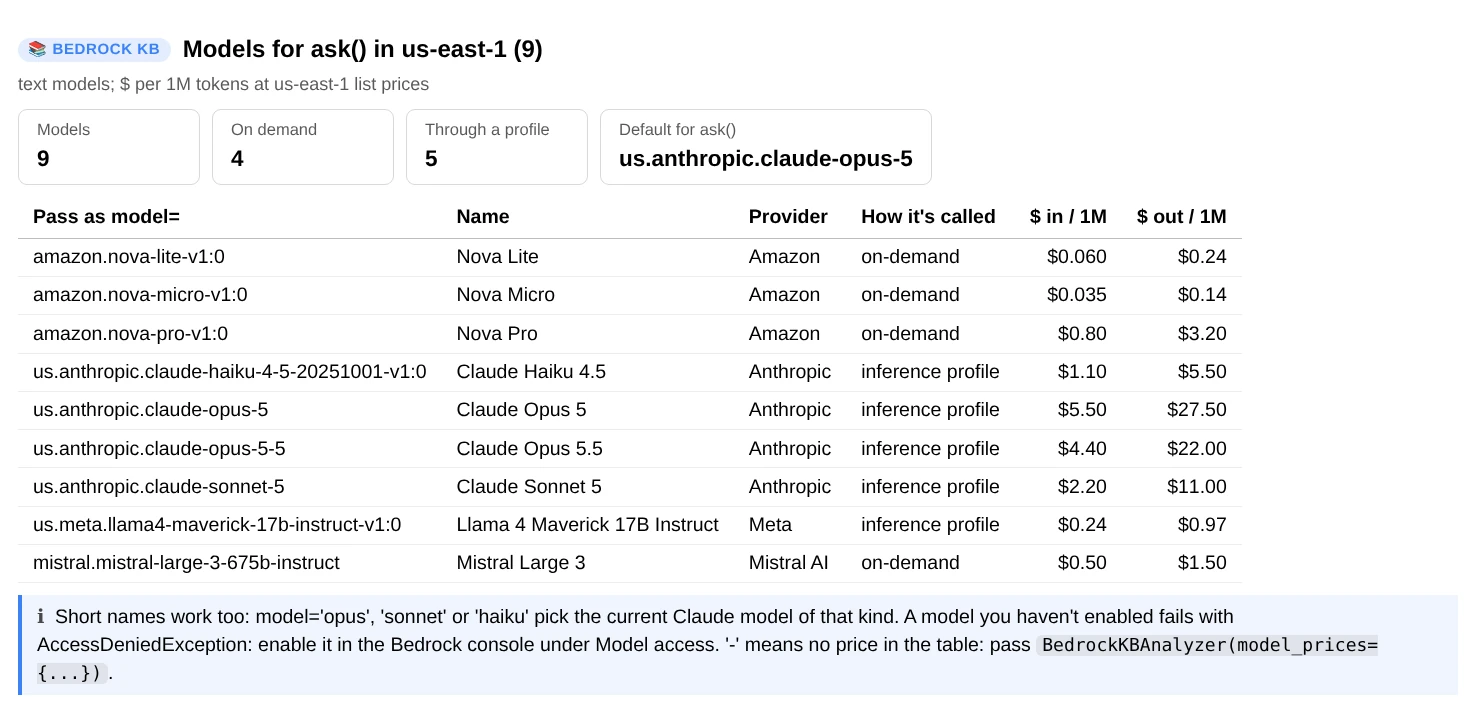
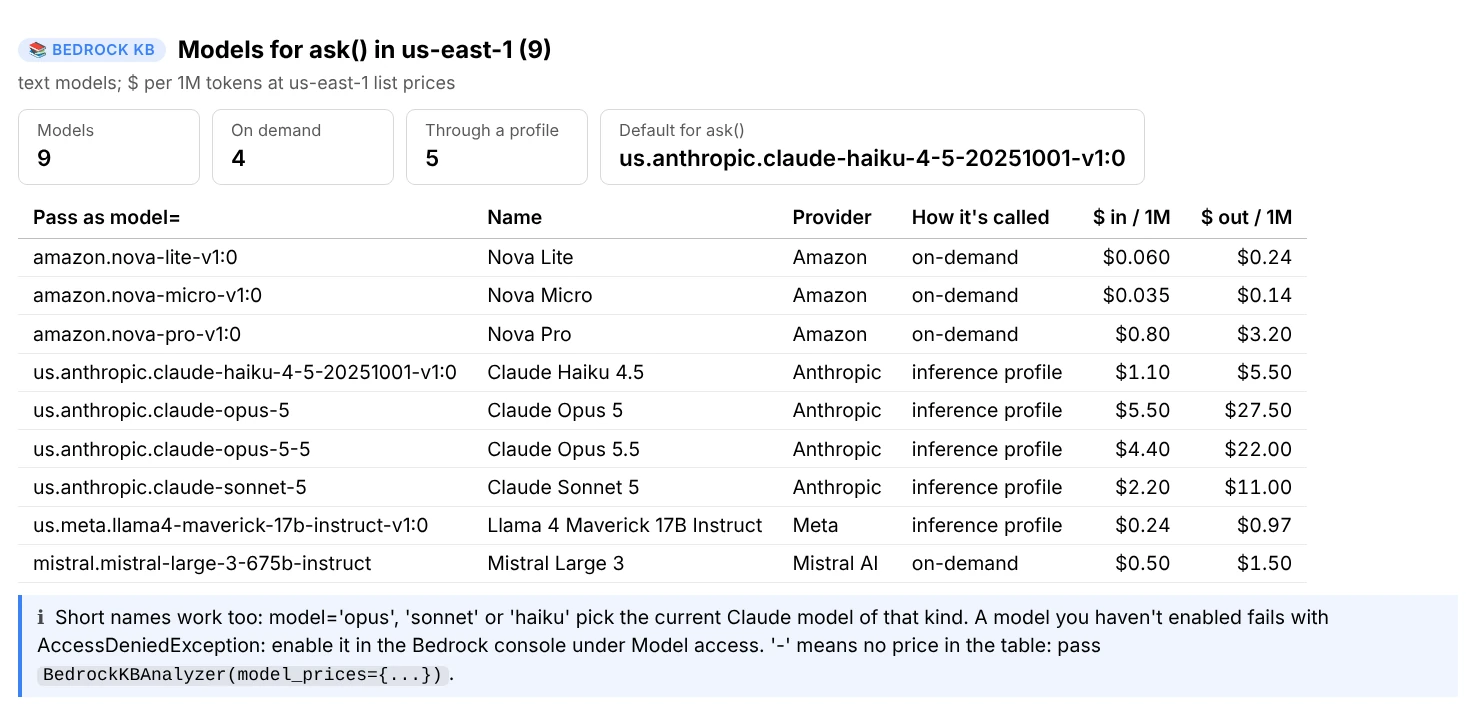
Make Claude Haiku 4.5 bedrock_kb's default model too
bedrock_kb's DEFAULT_MODEL now matches bedrock_chat's: ask() and generate()
without model= answer through Claude Haiku 4.5's inference profile. The tests
expect the Haiku profile by default, README and the guide say so, the ask and
models figures are remade, and the changelog entry covers both files and
links the pull request.

Claude-Session: https://claude.ai/code/session_01TEHyrYuZEVyPENDTYoAWq6

diff --git a/analyzers/bedrock_kb.py b/analyzers/bedrock_kb.py
@@ -142,7 +142,7 @@ GLOBAL_MODEL_PRICES: dict[str, tuple[float, float]] = {
     "nova-2-lite": (0.30, 2.50),
 }
 
-DEFAULT_MODEL = "anthropic.claude-opus-5"  # Claude Opus 5; resolve_model() finds the ID or profile to call it with
+DEFAULT_MODEL = "anthropic.claude-haiku-4-5"  # Claude Haiku 4.5; resolve_model() finds the ID or profile to call it with
 _MODEL_ALIASES = {
     "opus": "claude-opus-5",
     "sonnet": "claude-sonnet-5",
@@ -2777,7 +2777,7 @@ class BedrockKBAnalyzer:
     Methods take the knowledge base first, as an ID, a name (any case) or an ARN. Nothing here starts a sync or
     changes a document; where one is needed, sync_command() gives the command to run.
     `prices` and `model_prices` override BEDROCK_PRICES and MODEL_PRICES for cost estimates; `default_model` is the
-    model ask() and generate() use when none is given (DEFAULT_MODEL, Claude Opus 5, otherwise). `clients` pre-fills the boto3 clients by service name
+    model ask() and generate() use when none is given (DEFAULT_MODEL, Claude Haiku 4.5, otherwise). `clients` pre-fills the boto3 clients by service name
     ('bedrock-agent', 'bedrock-agent-runtime', 'bedrock-runtime', 'bedrock', 's3'), e.g. to use stubbed ones.
     """
 
@@ -2805,7 +2805,7 @@ class BedrockKBAnalyzer:
         self.prices = {**BEDROCK_PRICES, **(prices or {})}
         self.model_prices = {**MODEL_PRICES, **(model_prices or {})}
         self.default_model = (
-            default_model  # what model=None means (None: DEFAULT_MODEL, Claude Opus 5)
+            default_model  # what model=None means (None: DEFAULT_MODEL, Claude Haiku 4.5)
         )
         self._models: list[ModelInfo] | None = None
         self._profiles: list[dict[str, Any]] = []
@@ -3362,7 +3362,7 @@ class BedrockKBAnalyzer:
 
     def resolve_model(self, name: str | None = None) -> tuple[str, str]:
         """(ID to call, ARN) for a model: a model ID or ARN, an inference profile ID, or a short name ('opus',
-        'sonnet', 'haiku', 'claude-opus-5', 'nova-pro'). None means default_model, else DEFAULT_MODEL (Claude Opus 5).
+        'sonnet', 'haiku', 'claude-opus-5', 'nova-pro'). None means default_model, else DEFAULT_MODEL (Claude Haiku 4.5).
         A model that can't be called on demand resolves to this region's inference profile. If the model list can't
         be read, the name is used as given."""
         wanted = str(name or self.default_model or DEFAULT_MODEL).strip()

diff --git a/tests/test_bedrock_kb.py b/tests/test_bedrock_kb.py
@@ -385,6 +385,8 @@ PROFILES = [
 OPUS_PROFILE = (
     f"arn:aws:bedrock:us-east-1:{ACCOUNT}:inference-profile/us.anthropic.claude-opus-5"
 )
+HAIKU = "us.anthropic.claude-haiku-4-5-20251001-v1:0"  # what DEFAULT_MODEL resolves to
+HAIKU_PROFILE = f"arn:aws:bedrock:us-east-1:{ACCOUNT}:inference-profile/{HAIKU}"
 
 
 def denied(stub, operation, code="AccessDeniedException"):
@@ -1852,10 +1854,7 @@ def test_resolve_sources_without_list_permission(aws, core):
 
 def test_resolve_model_short_names(aws, core):
     aws.models()
-    assert core.resolve_model() == (
-        "us.anthropic.claude-opus-5",
-        OPUS_PROFILE,
-    )  # Claude Opus 5 by default
+    assert core.resolve_model() == (HAIKU, HAIKU_PROFILE)  # Claude Haiku 4.5 by default
     assert core.resolve_model("opus")[0] == "us.anthropic.claude-opus-5"
     assert core.resolve_model("claude-opus-5-5")[0] == "us.anthropic.claude-opus-5-5"
     assert (
@@ -1888,7 +1887,7 @@ def test_resolve_model_uses_the_name_when_models_cant_be_listed(aws):
     )
 
 
-def rag_params(question, config=None, session=None, model_arn=OPUS_PROFILE, n=5):
+def rag_params(question, config=None, session=None, model_arn=HAIKU_PROFILE, n=5):
     kb = {
         "knowledgeBaseId": KB_ID,
         "modelArn": model_arn,
@@ -1919,7 +1918,7 @@ def test_retrieve_and_generate_sends_only_what_was_passed(aws, core):
     )  # no temperature, no max tokens, no prompt
     a = core.retrieve_and_generate("support-docs", "refund window?")
     assert (
-        a.model == "us.anthropic.claude-opus-5"
+        a.model == HAIKU
         and a.tokens_estimated
         and a.kb_name == "support-docs"
     )
@@ -2490,7 +2489,7 @@ def test_ui_ask(aws, ui, capsys):
         "Ask support-docs: How long do refunds take?",
         "Grounded: 75%",
         "Sources used: 3",
-        "Model: claude-opus-5 (KB engine)",
+        "Model: claude-haiku-4-5 (KB engine)",
         "Tokens: ~",
         " (estimate)",
         "Est. cost: <$0.01",
@@ -2742,7 +2741,7 @@ def test_ui_models(aws, ui, capsys):
         "Models for ask() in us-east-1 (6)",
         "On demand: 2",
         "Through a profile: 4",
-        "Default for ask(): us.anthropic.claude-opus-5",
+        "Default for ask(): us.anthropic.claude-haiku-4-5-20251001-v1:0",
         "us.anthropic.claude-opus-5-5",
         "inference profile",
         "$5.50",

diff --git a/docs/bedrock_kb.md b/docs/bedrock_kb.md
@@ -202,8 +202,8 @@ ui.ask("How long do refunds take?", data_source="faq")     # from one data sourc
 ui.chunk(1)                                                # source [1] in full
 ```
 
-![ask(): an answer about refund times with a \[1\] and a \[2\] marker, 77% grounded because its last sentence cites nothing, cards for sources used, model, estimated tokens, cost and time, and the two cited passages from refund-policy.pdf](images/bedrock-ask-light.webp#only-light){ width="984" height="403" loading=lazy }
-![ask(): an answer about refund times with a \[1\] and a \[2\] marker, 77% grounded because its last sentence cites nothing, cards for sources used, model, estimated tokens, cost and time, and the two cited passages from refund-policy.pdf](images/bedrock-ask-dark.webp#only-dark){ width="984" height="403" loading=lazy }
+![ask(): an answer about refund times with a \[1\] and a \[2\] marker, 77% grounded because its last sentence cites nothing, cards for sources used, model, estimated tokens, cost and time, and the two cited passages from refund-policy.pdf](images/bedrock-ask-light.webp#only-light){ width="984" height="405" loading=lazy }
+![ask(): an answer about refund times with a \[1\] and a \[2\] marker, 77% grounded because its last sentence cites nothing, cards for sources used, model, estimated tokens, cost and time, and the two cited passages from refund-policy.pdf](images/bedrock-ask-dark.webp#only-dark){ width="984" height="405" loading=lazy }
 /// caption
 `ui.ask("How long do refunds take?")`: cited spans are shaded and link to their source. The last sentence cites nothing, so the answer is 77% grounded. Tokens are an estimate here, because RetrieveAndGenerate doesn't report them.
 ///
@@ -245,7 +245,7 @@ ui.ask("How long do refunds take?", engine="converse", prompt=MY_PROMPT)
 
 ### Choosing a model
 
-`model=` takes a model ID or ARN, an inference profile ID, or a short name: `"opus"`, `"sonnet"`, `"haiku"`, `"claude-opus-5"`, `"nova-pro"`. The default is Claude Opus 5, called through the region's inference profile when it can't be called on demand. `models()` lists the text models you can use in the region, the ID to pass, how each is called and its price per million tokens.
+`model=` takes a model ID or ARN, an inference profile ID, or a short name: `"opus"`, `"sonnet"`, `"haiku"`, `"claude-opus-5"`, `"nova-pro"`. The default is Claude Haiku 4.5, called through the region's inference profile when it can't be called on demand. `models()` lists the text models you can use in the region, the ID to pass, how each is called and its price per million tokens.
 
 ```python
 ui.models()
@@ -253,8 +253,8 @@ ui.models("claude")
 ui = BedrockKBView(BedrockKBAnalyzer(default_model="sonnet"))   # a different default
 ```
 
-![models(): nine text models with the ID to pass as model=, name, provider, whether it's called on demand or through an inference profile, and the price per million input and output tokens; the default for ask() is us.anthropic.claude-opus-5](images/bedrock-models-light.webp#only-light){ width="984" height="475" loading=lazy }
-![models(): nine text models with the ID to pass as model=, name, provider, whether it's called on demand or through an inference profile, and the price per million input and output tokens; the default for ask() is us.anthropic.claude-opus-5](images/bedrock-models-dark.webp#only-dark){ width="984" height="475" loading=lazy }
+![models(): nine text models with the ID to pass as model=, name, provider, whether it's called on demand or through an inference profile, and the price per million input and output tokens; the default for ask() is us.anthropic.claude-haiku-4-5-20251001-v1:0](images/bedrock-models-light.webp#only-light){ width="984" height="477" loading=lazy }
+![models(): nine text models with the ID to pass as model=, name, provider, whether it's called on demand or through an inference profile, and the price per million input and output tokens; the default for ask() is us.anthropic.claude-haiku-4-5-20251001-v1:0](images/bedrock-models-dark.webp#only-dark){ width="984" height="477" loading=lazy }
 /// caption
 `ui.models()`: the ID to pass as `model=`, how each model is called, and what it costs per million tokens.
 ///

diff --git a/CHANGELOG.md b/CHANGELOG.md
@@ -25,10 +25,10 @@ changes what one shows, and a patch (0.1.1) only fixes things. A change that cou
 
 ### Changed
 
-- `bedrock_chat.py`: `chat()` and `ask()` use Claude Haiku 4.5 when you don't pick a model, instead of
-  Claude Opus 5: answers come faster and cost a fifth as much ($1.10 / $5.50 per 1M tokens in us-east-1).
-  To keep Opus, pass `model="opus"` or `BedrockChatAnalyzer(default_model="opus")`. `bedrock_kb.py` still
-  defaults to Opus 5.
+- `bedrock_chat.py` and `bedrock_kb.py`: `chat()`, `ask()` and `generate()` use Claude Haiku 4.5 when you don't
+  pick a model, instead of Claude Opus 5: answers come faster and cost a fifth as much ($1.10 / $5.50 per 1M tokens
+  in us-east-1). To keep Opus, pass `model="opus"`, or set it once with `BedrockChatAnalyzer(default_model="opus")`
+  / `BedrockKBAnalyzer(default_model="opus")`. ([#44](https://github.com/utkarsh5026/aws-analyzer/pull/44))
 - `bedrock_chat.py`: the chat window's knowledge base, model, data source and files pickers are searchable lists
   instead of drop-downs. Click a field to open its list: each knowledge base shows its ID, a status dot, its
   description and when it changed, and each model its ID, provider and price. Type part of a name, an ID, a

diff --git a/README.md b/README.md
@@ -841,7 +841,7 @@ With `engine="converse"`, the sources are sent as data, never as instructions, a
 `[n]` and to say when they don't hold the answer.
 
 `model=` takes a model ID or ARN, an inference profile ID, or a short name: `"opus"`, `"sonnet"`, `"haiku"`,
-`"claude-opus-5"`, `"nova-pro"`. The default is Claude Opus 5 (`bedrock_kb.DEFAULT_MODEL`), through the region's
+`"claude-opus-5"`, `"nova-pro"`. The default is Claude Haiku 4.5 (`bedrock_kb.DEFAULT_MODEL`), through the region's
 inference profile when it needs one; `BedrockKBAnalyzer(default_model="sonnet")` changes it.
 
 ### One data source (`data_source=`)
